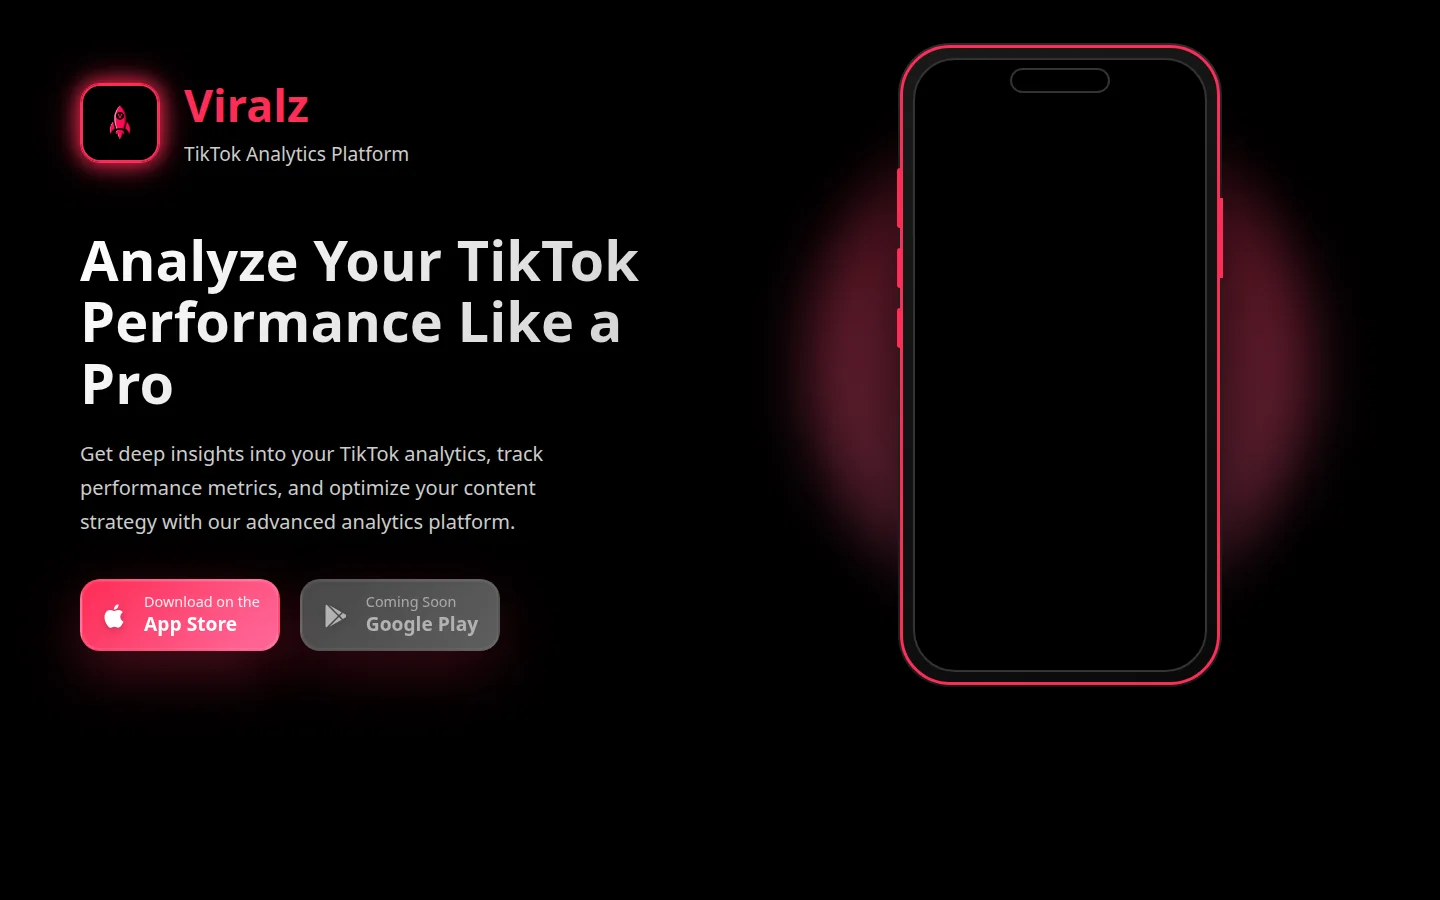
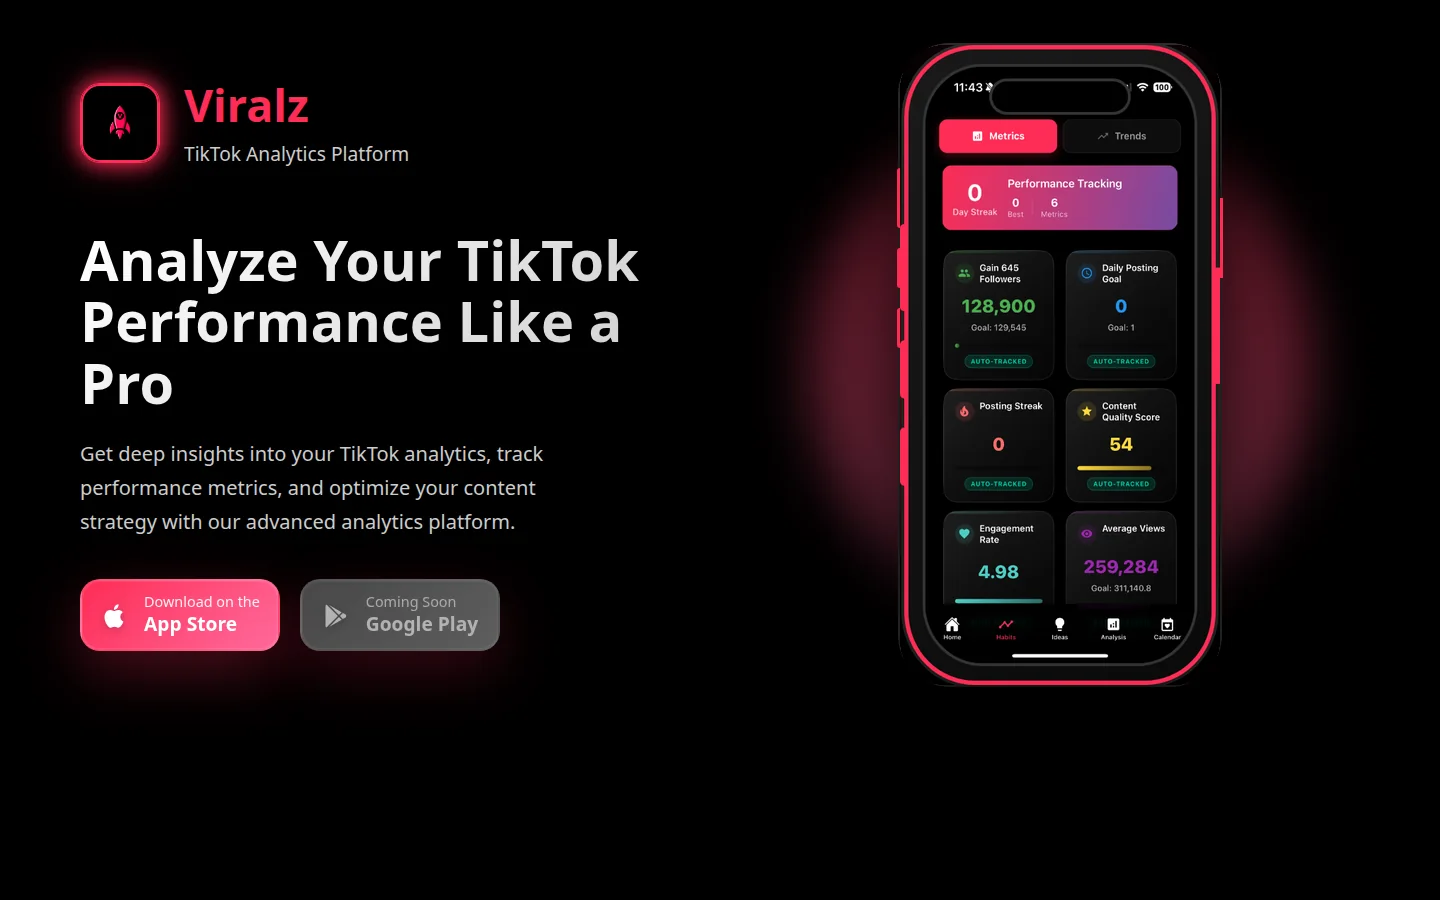
Polish showcase screenshots, mobile Now strip, and dev config
Use 2x phone captures cropped to their frames, add the real Viralz app screen to its desktop shot, stack the Now strip on phones, hide the mail button while the panel is open, and allow local and tunnel origins in dev.

Changed region(s): [[0.625, 0.0311, 0.875, 0.7778]]

diff --git a/lib/content/projects.ts b/lib/content/projects.ts
@@ -18,8 +18,8 @@ export const projects: Project[] = [
     links: [
       { label: "viralzapp.com", href: "https://viralzapp.com/", icon: "fas fa-globe" },
     ],
-    desktopImage: "/projects/viralz.png",
-    phoneImage: "/projects/viralz-phone.png",
+    desktopImage: "/projects/viralz.webp",
+    phoneImage: "/projects/viralz-phone.webp",
     role: "Founder and developer",
     platform: "iOS app and web",
     overview:
@@ -63,8 +63,8 @@ export const projects: Project[] = [
     links: [
       { label: "snappd.app", href: "https://snappd.app/", icon: "fas fa-globe" },
     ],
-    desktopImage: "/projects/snappd.png",
-    phoneImage: "/projects/snappd-phone.png",
+    desktopImage: "/projects/snappd.webp",
+    phoneImage: "/projects/snappd-phone.webp",
     role: "Founder and developer",
     platform: "Web app",
     overview:
@@ -109,8 +109,8 @@ export const projects: Project[] = [
     links: [
       { label: "getgogrow.app", href: "https://getgogrow.app/", icon: "fas fa-globe" },
     ],
-    desktopImage: "/projects/gogrow.png",
-    phoneImage: "/projects/gogrow-phone.png",
+    desktopImage: "/projects/gogrow.webp",
+    phoneImage: "/projects/gogrow-phone.webp",
     role: "Developer",
     platform: "iOS app and web",
     overview:

diff --git a/components/home/now-strip.tsx b/components/home/now-strip.tsx
@@ -3,17 +3,21 @@ import { nowCopy } from "@/lib/content/site";
 export function NowStrip() {
   return (
     <section className="now" aria-label="Current role">
-      <strong>Currently:</strong> {nowCopy.current.role} at{" "}
-      <span className="text--blue">{nowCopy.current.company}</span>
+      <span className="now__item">
+        <strong>Currently:</strong> {nowCopy.current.role} at{" "}
+        <span className="text--blue">{nowCopy.current.company}</span>
+      </span>
       <span className="now__sep" aria-hidden>
         ·
       </span>
-      <strong>Previously:</strong> {nowCopy.previous.role} at{" "}
-      <span className="text--blue">{nowCopy.previous.company}</span>
+      <span className="now__item">
+        <strong>Previously:</strong> {nowCopy.previous.role} at{" "}
+        <span className="text--blue">{nowCopy.previous.company}</span>
+      </span>
       <span className="now__sep" aria-hidden>
         ·
       </span>
-      {nowCopy.degree}
+      <span className="now__item">{nowCopy.degree}</span>
     </section>
   );
 }

diff --git a/app/site.css b/app/site.css
@@ -324,7 +324,8 @@ i:hover {
 
 .modal--open .nav,
 .modal--open .header,
-.modal--open .now {
+.modal--open .now,
+.modal--open .btn__mail {
   opacity: 0;
   visibility: hidden;
   transition: opacity 400ms ease, visibility 400ms ease;
@@ -758,7 +759,7 @@ footer {
   width: 100%;
   aspect-ratio: 16 / 10;
   object-fit: cover;
-  object-position: top;
+  object-position: center;
 }
 
 .archive__body {
@@ -890,6 +891,20 @@ footer {
 
   .header {
     padding: 0 24px;
+  }
+
+  .now {
+    padding: 0 96px 32px 24px;
+    text-align: left;
+    line-height: 1.6;
+  }
+
+  .now__item {
+    display: block;
+  }
+
+  .now__sep {
+    display: none;
   }
 
   .modal__half {

diff --git a/app/showcase.css b/app/showcase.css
@@ -1,4 +1,5 @@
 .showcase {
+  scroll-margin-top: 40px;
   position: relative;
   display: grid;
   grid-template-columns: 1.15fr 0.85fr;
@@ -236,6 +237,10 @@
   color: #fff;
 }
 
+.showcase--viralz .showcase__mockup img {
+  border-radius: 14% / 7%;
+}
+
 /* Snappd */
 
 .showcase--snappd {
@@ -461,6 +466,11 @@
 
 .showcase--gogrow .showcase__link {
   color: #fff;
+}
+
+.showcase--gogrow .showcase__mockup img {
+  border-radius: 13% 13% 0 0 / 8% 8% 0 0;
+  mask-image: linear-gradient(to bottom, #000 72%, transparent 100%);
 }
 
 @media (max-width: 900px) {

diff --git a/app/case-study.css b/app/case-study.css
@@ -15,6 +15,15 @@
   height: auto;
 }
 
+.case__band--viralz .case__band-visual img {
+  border-radius: 14% / 7%;
+}
+
+.case__band--gogrow .case__band-visual img {
+  border-radius: 13% 13% 0 0 / 8% 8% 0 0;
+  mask-image: linear-gradient(to bottom, #000 72%, transparent 100%);
+}
+
 .case__eyebrow {
   font-size: 13px;
   font-weight: 700;

diff --git a/components/home/project-showcase.tsx b/components/home/project-showcase.tsx
@@ -13,6 +13,7 @@ export function ProjectShowcase({ project, reverse }: ProjectShowcaseProps) {
 
   return (
     <li
+      id={project.slug}
       className={`showcase showcase--${project.theme}${reverse ? " showcase--reverse" : ""}`}
     >
       {themeDetails.decorations}

diff --git a/next.config.ts b/next.config.ts
@@ -6,7 +6,7 @@ const nextConfig: NextConfig = {
   images: {
     unoptimized: true,
   },
-  allowedDevOrigins: ["motorcycles-shop-reward-broad.trycloudflare.com"],
+  allowedDevOrigins: ["127.0.0.1", "localhost", "*.trycloudflare.com"],
 };
 
 export default nextConfig;
